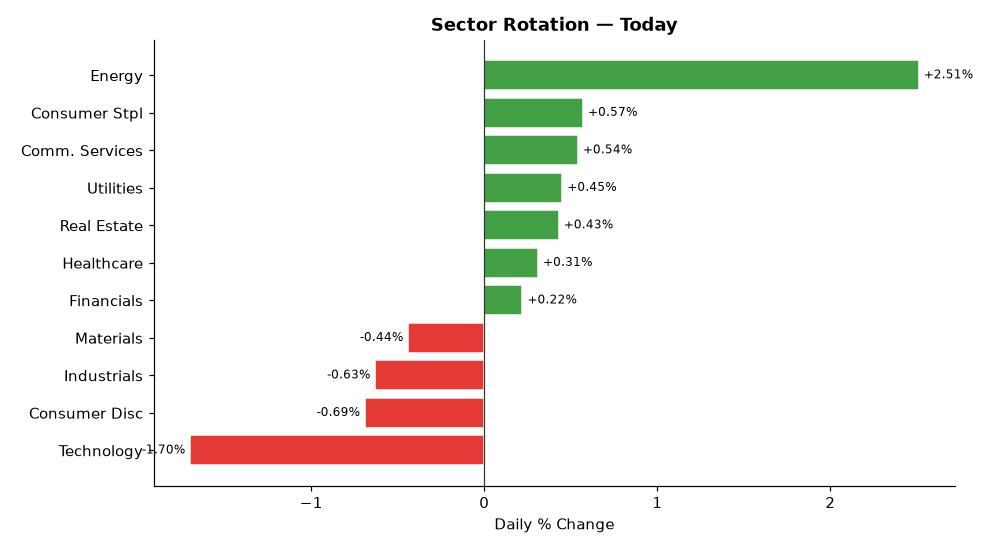
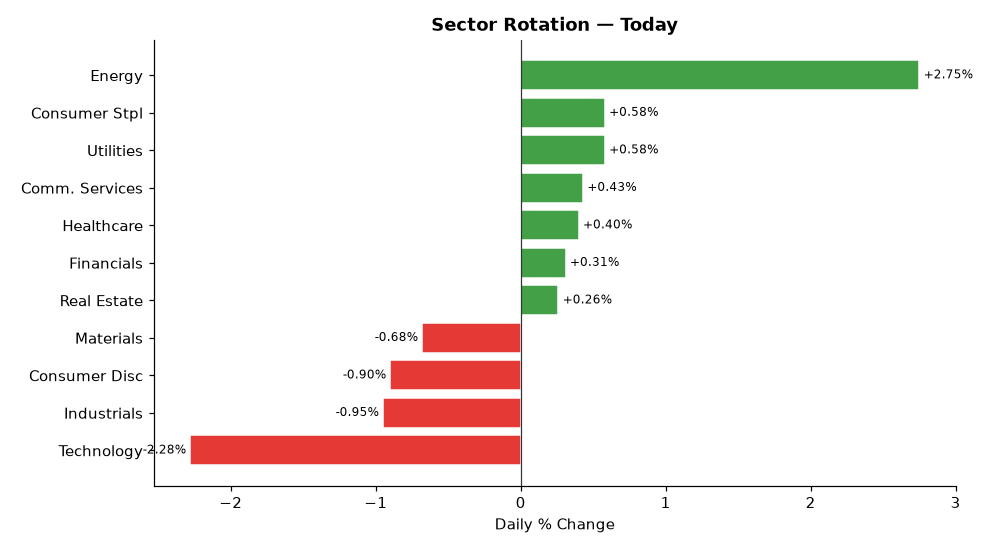
deploy: b7fadf5b06deb90e7ebb92f278722414bdd9750d

diff --git a/index.html b/index.html
@@ -4,7 +4,7 @@
   <meta charset="UTF-8">
   <meta name="viewport" content="width=device-width,initial-scale=1">
   <meta http-equiv="Cache-Control" content="no-cache,no-store,must-revalidate">
-  <title>Stock Breakout Screener — 2026-07-13 16:02</title>
+  <title>Stock Breakout Screener — 2026-07-13 16:55</title>
   <style>
     *{box-sizing:border-box;margin:0;padding:0}
     body{font-family:'Segoe UI',Arial,sans-serif;background:#f0f2f5;
@@ -34,7 +34,7 @@
 
 <div class="hdr">
   <h1>📈 Stock Breakout Screener</h1>
-  <p>Updated: 2026-07-13 16:02 UTC &nbsp;·&nbsp; Phase: Regular Market Hours &nbsp;·&nbsp;
+  <p>Updated: 2026-07-13 16:55 UTC &nbsp;·&nbsp; Phase: Regular Market Hours &nbsp;·&nbsp;
      129 stocks screened &nbsp;·&nbsp; Top 5 by conviction score</p>
 </div>
 
@@ -69,7 +69,7 @@
             </span>
           </div>
           <ul style="margin:0;padding-left:18px;font-size:13px;
-                     color:#333;line-height:1.8"><li style="margin:5px 0"><span style="background:#ffebee;color:#b71c1c;padding:2px 7px;border-radius:4px;font-size:11px;">❌</span> Volume: <b>0.3× average</b> — Above-average activity</li><li style="margin:5px 0"><span style="background:#ffebee;color:#b71c1c;padding:2px 7px;border-radius:4px;font-size:11px;">❌</span> Candle: close <b>$194.52</b> vs open <b>$192.24</b> (+1.2%) — regular market close</li><li style="margin:5px 0"><span style="background:#e8f5e9;color:#2e7d32;padding:2px 7px;border-radius:4px;font-size:11px;">✅</span> 200-Day MA: price <b>$194.52</b> vs MA <b>$166.09</b> — <b>✅ Above</b> long-term trend</li><li style="margin:5px 0"><span style="background:#e8f5e9;color:#2e7d32;padding:2px 7px;border-radius:4px;font-size:11px;">✅</span> Inst. ownership: <b>80.8%</b> · MFI: <b>74.5</b> · Market cap: <b>$78.0B</b></li></ul>
+                     color:#333;line-height:1.8"><li style="margin:5px 0"><span style="background:#ffebee;color:#b71c1c;padding:2px 7px;border-radius:4px;font-size:11px;">❌</span> Volume: <b>0.4× average</b> — Above-average activity</li><li style="margin:5px 0"><span style="background:#ffebee;color:#b71c1c;padding:2px 7px;border-radius:4px;font-size:11px;">❌</span> Candle: close <b>$195.57</b> vs open <b>$192.24</b> (+1.7%) — regular market close</li><li style="margin:5px 0"><span style="background:#e8f5e9;color:#2e7d32;padding:2px 7px;border-radius:4px;font-size:11px;">✅</span> 200-Day MA: price <b>$195.57</b> vs MA <b>$166.10</b> — <b>✅ Above</b> long-term trend</li><li style="margin:5px 0"><span style="background:#e8f5e9;color:#2e7d32;padding:2px 7px;border-radius:4px;font-size:11px;">✅</span> Inst. ownership: <b>80.8%</b> · MFI: <b>74.6</b> · Market cap: <b>$78.4B</b></li></ul>
         </div>
         <div style="background:#fff;border:1px solid #ddd;border-radius:10px;
                     padding:16px 20px;margin-bottom:12px;
@@ -86,7 +86,7 @@
             </span>
           </div>
           <ul style="margin:0;padding-left:18px;font-size:13px;
-                     color:#333;line-height:1.8"><li style="margin:5px 0"><span style="background:#ffebee;color:#b71c1c;padding:2px 7px;border-radius:4px;font-size:11px;">❌</span> Volume: <b>0.2× average</b> — Above-average activity</li><li style="margin:5px 0"><span style="background:#ffebee;color:#b71c1c;padding:2px 7px;border-radius:4px;font-size:11px;">❌</span> Candle: close <b>$291.68</b> vs open <b>$285.82</b> (+2.1%) — regular market close</li><li style="margin:5px 0"><span style="background:#e8f5e9;color:#2e7d32;padding:2px 7px;border-radius:4px;font-size:11px;">✅</span> 200-Day MA: price <b>$291.68</b> vs MA <b>$231.25</b> — <b>✅ Above</b> long-term trend</li><li style="margin:5px 0"><span style="background:#e8f5e9;color:#2e7d32;padding:2px 7px;border-radius:4px;font-size:11px;">✅</span> Inst. ownership: <b>87.9%</b> · MFI: <b>70.8</b> · Market cap: <b>$86.6B</b></li></ul>
+                     color:#333;line-height:1.8"><li style="margin:5px 0"><span style="background:#ffebee;color:#b71c1c;padding:2px 7px;border-radius:4px;font-size:11px;">❌</span> Volume: <b>0.3× average</b> — Above-average activity</li><li style="margin:5px 0"><span style="background:#ffebee;color:#b71c1c;padding:2px 7px;border-radius:4px;font-size:11px;">❌</span> Candle: close <b>$292.80</b> vs open <b>$285.82</b> (+2.4%) — regular market close</li><li style="margin:5px 0"><span style="background:#e8f5e9;color:#2e7d32;padding:2px 7px;border-radius:4px;font-size:11px;">✅</span> 200-Day MA: price <b>$292.80</b> vs MA <b>$231.26</b> — <b>✅ Above</b> long-term trend</li><li style="margin:5px 0"><span style="background:#e8f5e9;color:#2e7d32;padding:2px 7px;border-radius:4px;font-size:11px;">✅</span> Inst. ownership: <b>87.9%</b> · MFI: <b>70.9</b> · Market cap: <b>$86.9B</b></li></ul>
         </div>
         <div style="background:#fff;border:1px solid #ddd;border-radius:10px;
                     padding:16px 20px;margin-bottom:12px;
@@ -103,7 +103,7 @@
             </span>
           </div>
           <ul style="margin:0;padding-left:18px;font-size:13px;
-                     color:#333;line-height:1.8"><li style="margin:5px 0"><span style="background:#ffebee;color:#b71c1c;padding:2px 7px;border-radius:4px;font-size:11px;">❌</span> Volume: <b>0.3× average</b> — Above-average activity</li><li style="margin:5px 0"><span style="background:#ffebee;color:#b71c1c;padding:2px 7px;border-radius:4px;font-size:11px;">❌</span> Candle: close <b>$294.60</b> vs open <b>$290.82</b> (+1.3%) — regular market close</li><li style="margin:5px 0"><span style="background:#e8f5e9;color:#2e7d32;padding:2px 7px;border-radius:4px;font-size:11px;">✅</span> 200-Day MA: price <b>$294.60</b> vs MA <b>$229.35</b> — <b>✅ Above</b> long-term trend</li><li style="margin:5px 0"><span style="background:#e8f5e9;color:#2e7d32;padding:2px 7px;border-radius:4px;font-size:11px;">✅</span> Inst. ownership: <b>78.4%</b> · MFI: <b>82.5</b> · Market cap: <b>$86.0B</b></li></ul>
+                     color:#333;line-height:1.8"><li style="margin:5px 0"><span style="background:#ffebee;color:#b71c1c;padding:2px 7px;border-radius:4px;font-size:11px;">❌</span> Volume: <b>0.4× average</b> — Above-average activity</li><li style="margin:5px 0"><span style="background:#ffebee;color:#b71c1c;padding:2px 7px;border-radius:4px;font-size:11px;">❌</span> Candle: close <b>$295.70</b> vs open <b>$290.82</b> (+1.7%) — regular market close</li><li style="margin:5px 0"><span style="background:#e8f5e9;color:#2e7d32;padding:2px 7px;border-radius:4px;font-size:11px;">✅</span> 200-Day MA: price <b>$295.70</b> vs MA <b>$229.36</b> — <b>✅ Above</b> long-term trend</li><li style="margin:5px 0"><span style="background:#e8f5e9;color:#2e7d32;padding:2px 7px;border-radius:4px;font-size:11px;">✅</span> Inst. ownership: <b>78.4%</b> · MFI: <b>82.7</b> · Market cap: <b>$86.4B</b></li></ul>
         </div>
         <div style="background:#fff;border:1px solid #ddd;border-radius:10px;
                     padding:16px 20px;margin-bottom:12px;
@@ -120,7 +120,7 @@
             </span>
           </div>
           <ul style="margin:0;padding-left:18px;font-size:13px;
-                     color:#333;line-height:1.8"><li style="margin:5px 0"><span style="background:#ffebee;color:#b71c1c;padding:2px 7px;border-radius:4px;font-size:11px;">❌</span> Volume: <b>0.4× average</b> — Above-average activity</li><li style="margin:5px 0"><span style="background:#ffebee;color:#b71c1c;padding:2px 7px;border-radius:4px;font-size:11px;">❌</span> Candle: close <b>$317.26</b> vs open <b>$317.02</b> (+0.1%) — regular market close</li><li style="margin:5px 0"><span style="background:#e8f5e9;color:#2e7d32;padding:2px 7px;border-radius:4px;font-size:11px;">✅</span> 200-Day MA: price <b>$317.26</b> vs MA <b>$276.08</b> — <b>✅ Above</b> long-term trend</li><li style="margin:5px 0"><span style="background:#e8f5e9;color:#2e7d32;padding:2px 7px;border-radius:4px;font-size:11px;">✅</span> Inst. ownership: <b>65.7%</b> · MFI: <b>74.0</b> · Market cap: <b>$4660.3B</b></li><li style="margin:5px 0"><span style="background:#e8f5e9;color:#2e7d32;padding:2px 7px;border-radius:4px;font-size:11px;">✅</span> Last similar breakout: <b>Jun 26, 2026</b> → <b>+11.8%</b> over 10 trading days</li></ul>
+                     color:#333;line-height:1.8"><li style="margin:5px 0"><span style="background:#ffebee;color:#b71c1c;padding:2px 7px;border-radius:4px;font-size:11px;">❌</span> Volume: <b>0.4× average</b> — Above-average activity</li><li style="margin:5px 0"><span style="background:#ffebee;color:#b71c1c;padding:2px 7px;border-radius:4px;font-size:11px;">❌</span> Candle: close <b>$316.38</b> vs open <b>$317.02</b> (-0.2%) — regular market close</li><li style="margin:5px 0"><span style="background:#e8f5e9;color:#2e7d32;padding:2px 7px;border-radius:4px;font-size:11px;">✅</span> 200-Day MA: price <b>$316.38</b> vs MA <b>$276.08</b> — <b>✅ Above</b> long-term trend</li><li style="margin:5px 0"><span style="background:#e8f5e9;color:#2e7d32;padding:2px 7px;border-radius:4px;font-size:11px;">✅</span> Inst. ownership: <b>65.7%</b> · MFI: <b>74.1</b> · Market cap: <b>$4646.9B</b></li><li style="margin:5px 0"><span style="background:#e8f5e9;color:#2e7d32;padding:2px 7px;border-radius:4px;font-size:11px;">✅</span> Last similar breakout: <b>Jun 26, 2026</b> → <b>+11.5%</b> over 10 trading days</li></ul>
         </div>
         <div style="background:#fff;border:1px solid #ddd;border-radius:10px;
                     padding:16px 20px;margin-bottom:12px;
@@ -137,7 +137,7 @@
             </span>
           </div>
           <ul style="margin:0;padding-left:18px;font-size:13px;
-                     color:#333;line-height:1.8"><li style="margin:5px 0"><span style="background:#ffebee;color:#b71c1c;padding:2px 7px;border-radius:4px;font-size:11px;">❌</span> Volume: <b>0.4× average</b> — Above-average activity</li><li style="margin:5px 0"><span style="background:#ffebee;color:#b71c1c;padding:2px 7px;border-radius:4px;font-size:11px;">❌</span> Candle: close <b>$117.20</b> vs open <b>$116.91</b> (+0.2%) — regular market close</li><li style="margin:5px 0"><span style="background:#e8f5e9;color:#2e7d32;padding:2px 7px;border-radius:4px;font-size:11px;">✅</span> 200-Day MA: price <b>$117.20</b> vs MA <b>$99.57</b> — <b>✅ Above</b> long-term trend</li><li style="margin:5px 0"><span style="background:#e8f5e9;color:#2e7d32;padding:2px 7px;border-radius:4px;font-size:11px;">✅</span> Inst. ownership: <b>96.2%</b> · MFI: <b>64.2</b> · Market cap: <b>$51.6B</b></li><li style="margin:5px 0"><span style="background:#e8f5e9;color:#2e7d32;padding:2px 7px;border-radius:4px;font-size:11px;">✅</span> Last similar breakout: <b>Apr 30, 2026</b> → <b>+9.4%</b> over 10 trading days</li></ul>
+                     color:#333;line-height:1.8"><li style="margin:5px 0"><span style="background:#ffebee;color:#b71c1c;padding:2px 7px;border-radius:4px;font-size:11px;">❌</span> Volume: <b>0.4× average</b> — Above-average activity</li><li style="margin:5px 0"><span style="background:#ffebee;color:#b71c1c;padding:2px 7px;border-radius:4px;font-size:11px;">❌</span> Candle: close <b>$117.20</b> vs open <b>$116.91</b> (+0.2%) — regular market close</li><li style="margin:5px 0"><span style="background:#e8f5e9;color:#2e7d32;padding:2px 7px;border-radius:4px;font-size:11px;">✅</span> 200-Day MA: price <b>$117.20</b> vs MA <b>$99.56</b> — <b>✅ Above</b> long-term trend</li><li style="margin:5px 0"><span style="background:#e8f5e9;color:#2e7d32;padding:2px 7px;border-radius:4px;font-size:11px;">✅</span> Inst. ownership: <b>96.2%</b> · MFI: <b>63.9</b> · Market cap: <b>$51.5B</b></li><li style="margin:5px 0"><span style="background:#e8f5e9;color:#2e7d32;padding:2px 7px;border-radius:4px;font-size:11px;">✅</span> Last similar breakout: <b>Apr 30, 2026</b> → <b>+9.4%</b> over 10 trading days</li></ul>
         </div>
 
 
@@ -169,17 +169,17 @@
         <tr>
           <td style="font-weight:700;text-align:left;padding-left:10px">
             🟡 PSX</td>
-          <td style="background:#ffcdd2">0.3×</td>
-          <td style="background:#ffcdd2">+1.2%</td>
+          <td style="background:#ffcdd2">0.4×</td>
+          <td style="background:#ffcdd2">+1.7%</td>
           <td style="background:#c8e6c9">
             ▲ Above</td>
           <td style="background:#c8e6c9">
             80.8%</td>
           <td style="background:#c8e6c9">
-            74.5</td>
+            74.6</td>
           <td style="background:#c8e6c9">Energy</td>
           <td style="background:#c8e6c9">
-            73.9%</td>
+            72.4%</td>
           <td style="background:#ffcdd2">
             N/A</td>
           <td style="font-weight:800;font-size:15px">11/17</td>
@@ -187,17 +187,17 @@
         <tr>
           <td style="font-weight:700;text-align:left;padding-left:10px">
             🟡 VLO</td>
-          <td style="background:#ffcdd2">0.2×</td>
-          <td style="background:#ffcdd2">+2.1%</td>
+          <td style="background:#ffcdd2">0.3×</td>
+          <td style="background:#ffcdd2">+2.4%</td>
           <td style="background:#c8e6c9">
             ▲ Above</td>
           <td style="background:#c8e6c9">
             87.9%</td>
           <td style="background:#c8e6c9">
-            70.8</td>
+            70.9</td>
           <td style="background:#c8e6c9">Energy</td>
           <td style="background:#c8e6c9">
-            88.6%</td>
+            83.6%</td>
           <td style="background:#ffcdd2">
             N/A</td>
           <td style="font-weight:800;font-size:15px">11/17</td>
@@ -205,17 +205,17 @@
         <tr>
           <td style="font-weight:700;text-align:left;padding-left:10px">
             🟡 MPC</td>
-          <td style="background:#ffcdd2">0.3×</td>
-          <td style="background:#ffcdd2">+1.3%</td>
+          <td style="background:#ffcdd2">0.4×</td>
+          <td style="background:#ffcdd2">+1.7%</td>
           <td style="background:#c8e6c9">
             ▲ Above</td>
           <td style="background:#c8e6c9">
             78.4%</td>
           <td style="background:#c8e6c9">
-            82.5</td>
+            82.7</td>
           <td style="background:#c8e6c9">Energy</td>
           <td style="background:#c8e6c9">
-            109.6%</td>
+            134.5%</td>
           <td style="background:#ffcdd2">
             N/A</td>
           <td style="font-weight:800;font-size:15px">11/17</td>
@@ -224,18 +224,18 @@
           <td style="font-weight:700;text-align:left;padding-left:10px">
             🟡 AAPL</td>
           <td style="background:#ffcdd2">0.4×</td>
-          <td style="background:#ffcdd2">+0.1%</td>
+          <td style="background:#ffcdd2">-0.2%</td>
           <td style="background:#c8e6c9">
             ▲ Above</td>
           <td style="background:#c8e6c9">
             65.7%</td>
           <td style="background:#c8e6c9">
-            74.0</td>
+            74.1</td>
           <td style="background:#ffcdd2">Technology</td>
           <td style="background:#c8e6c9">
-            115.7%</td>
+            147.0%</td>
           <td style="background:#c8e6c9">
-            +11.8%</td>
+            +11.5%</td>
           <td style="font-weight:800;font-size:15px">10/17</td>
         </tr>
         <tr>
@@ -248,10 +248,10 @@
           <td style="background:#c8e6c9">
             96.2%</td>
           <td style="background:#c8e6c9">
-            64.2</td>
+            63.9</td>
           <td style="background:#ffcdd2">Consumer Disc</td>
           <td style="background:#c8e6c9">
-            73.1%</td>
+            74.3%</td>
           <td style="background:#c8e6c9">
             +9.4%</td>
           <td style="font-weight:800;font-size:15px">10/17</td>
@@ -278,57 +278,57 @@
         <tr>
           <td style="text-align:left;padding-left:10px;font-weight:600">
             #1 Energy</td>
-          <td style="background:#e8f5e9;color:#2e7d32;font-weight:700">+2.51%</td>
+          <td style="background:#e8f5e9;color:#2e7d32;font-weight:700">+2.75%</td>
         </tr>
         <tr>
           <td style="text-align:left;padding-left:10px;font-weight:600">
             #2 Consumer Stpl</td>
-          <td style="background:#e8f5e9;color:#2e7d32;font-weight:700">+0.57%</td>
+          <td style="background:#e8f5e9;color:#2e7d32;font-weight:700">+0.58%</td>
         </tr>
         <tr>
           <td style="text-align:left;padding-left:10px;font-weight:600">
-            #3 Comm. Services</td>
-          <td style="background:#e8f5e9;color:#2e7d32;font-weight:700">+0.54%</td>
+            #3 Utilities</td>
+          <td style="background:#e8f5e9;color:#2e7d32;font-weight:700">+0.58%</td>
         </tr>
         <tr>
           <td style="text-align:left;padding-left:10px;font-weight:600">
-            #4 Utilities</td>
-          <td style="background:#e8f5e9;color:#2e7d32;font-weight:700">+0.45%</td>
-        </tr>
-        <tr>
-          <td style="text-align:left;padding-left:10px;font-weight:600">
-            #5 Real Estate</td>
+            #4 Comm. Services</td>
           <td style="background:#e8f5e9;color:#2e7d32;font-weight:700">+0.43%</td>
         </tr>
         <tr>
           <td style="text-align:left;padding-left:10px;font-weight:600">
-            #6 Healthcare</td>
+            #5 Healthcare</td>
+          <td style="background:#e8f5e9;color:#2e7d32;font-weight:700">+0.40%</td>
+        </tr>
+        <tr>
+          <td style="text-align:left;padding-left:10px;font-weight:600">
+            #6 Financials</td>
           <td style="background:#e8f5e9;color:#2e7d32;font-weight:700">+0.31%</td>
         </tr>
         <tr>
           <td style="text-align:left;padding-left:10px;font-weight:600">
-            #7 Financials</td>
-          <td style="background:#e8f5e9;color:#2e7d32;font-weight:700">+0.22%</td>
+            #7 Real Estate</td>
+          <td style="background:#e8f5e9;color:#2e7d32;font-weight:700">+0.26%</td>
         </tr>
         <tr>
           <td style="text-align:left;padding-left:10px;font-weight:600">
             #8 Materials</td>
-          <td style="background:#ffebee;color:#c62828;font-weight:700">-0.44%</td>
+          <td style="background:#ffebee;color:#c62828;font-weight:700">-0.68%</td>
         </tr>
         <tr>
           <td style="text-align:left;padding-left:10px;font-weight:600">
-            #9 Industrials</td>
-          <td style="background:#ffebee;color:#c62828;font-weight:700">-0.63%</td>
+            #9 Consumer Disc</td>
+          <td style="background:#ffebee;color:#c62828;font-weight:700">-0.90%</td>
         </tr>
         <tr>
           <td style="text-align:left;padding-left:10px;font-weight:600">
-            #10 Consumer Disc</td>
-          <td style="background:#ffebee;color:#c62828;font-weight:700">-0.69%</td>
+            #10 Industrials</td>
+          <td style="background:#ffebee;color:#c62828;font-weight:700">-0.95%</td>
         </tr>
         <tr>
           <td style="text-align:left;padding-left:10px;font-weight:600">
             #11 Technology</td>
-          <td style="background:#ffebee;color:#c62828;font-weight:700">-1.70%</td>
+          <td style="background:#ffebee;color:#c62828;font-weight:700">-2.28%</td>
         </tr>
     </table>
   </div>
@@ -367,7 +367,7 @@
         <li><b>Scoring weights:</b>
             Inst.Own(3) · Sector(3) · Volume(2) · Breakout(2) ·
             MA200(2) · MFI(2) · History(2) · IV(1) = 17pts max</li>
-        <li><b>Run time:</b> 2026-07-13 16:02 UTC — Market phase: Regular Market Hours</li>
+        <li><b>Run time:</b> 2026-07-13 16:55 UTC — Market phase: Regular Market Hours</li>
       </ul>
     </div>
 
